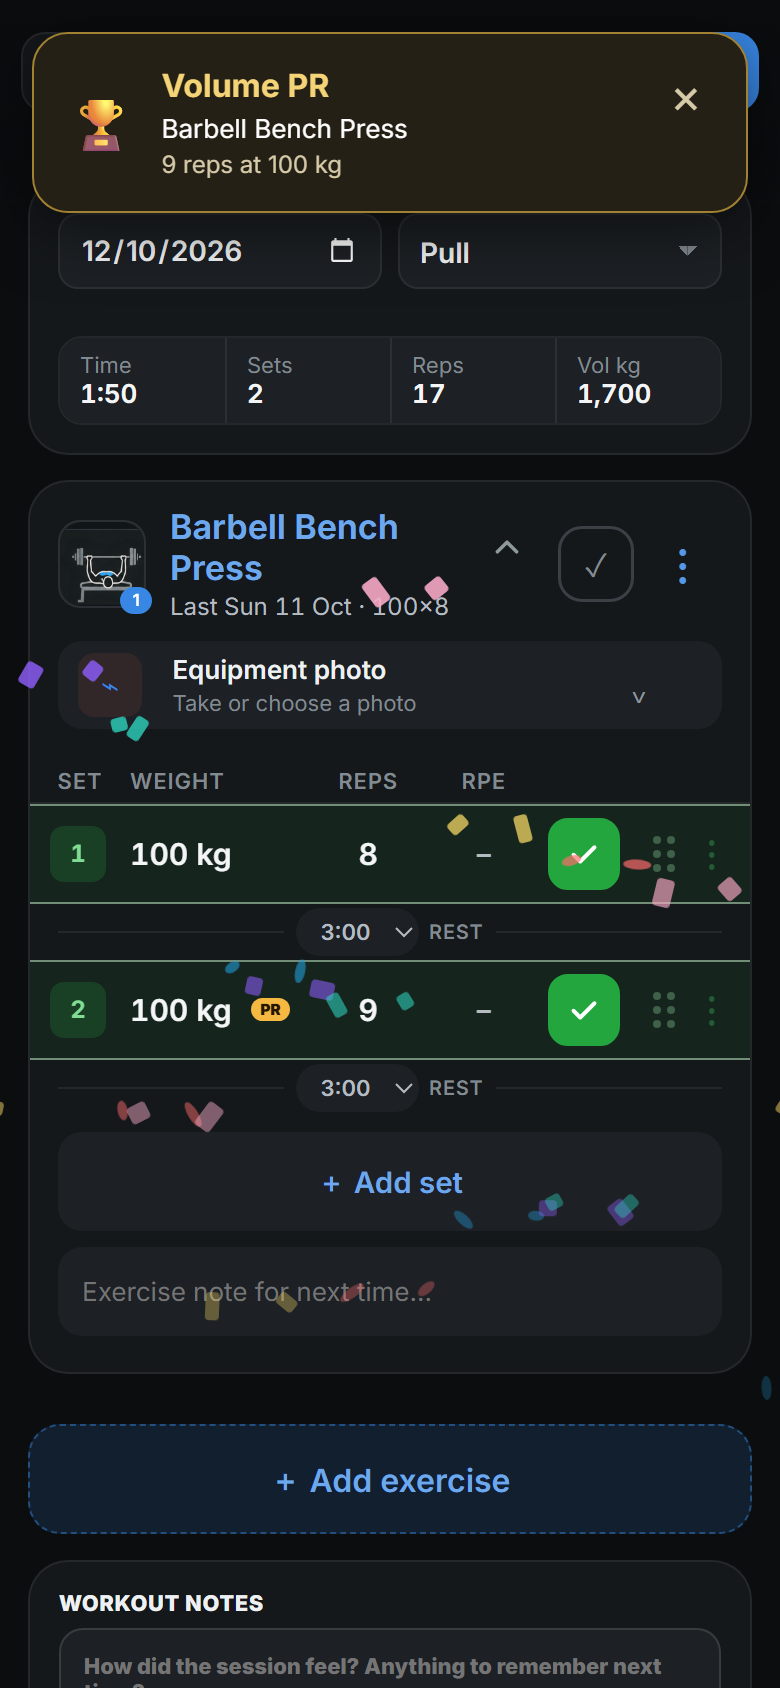
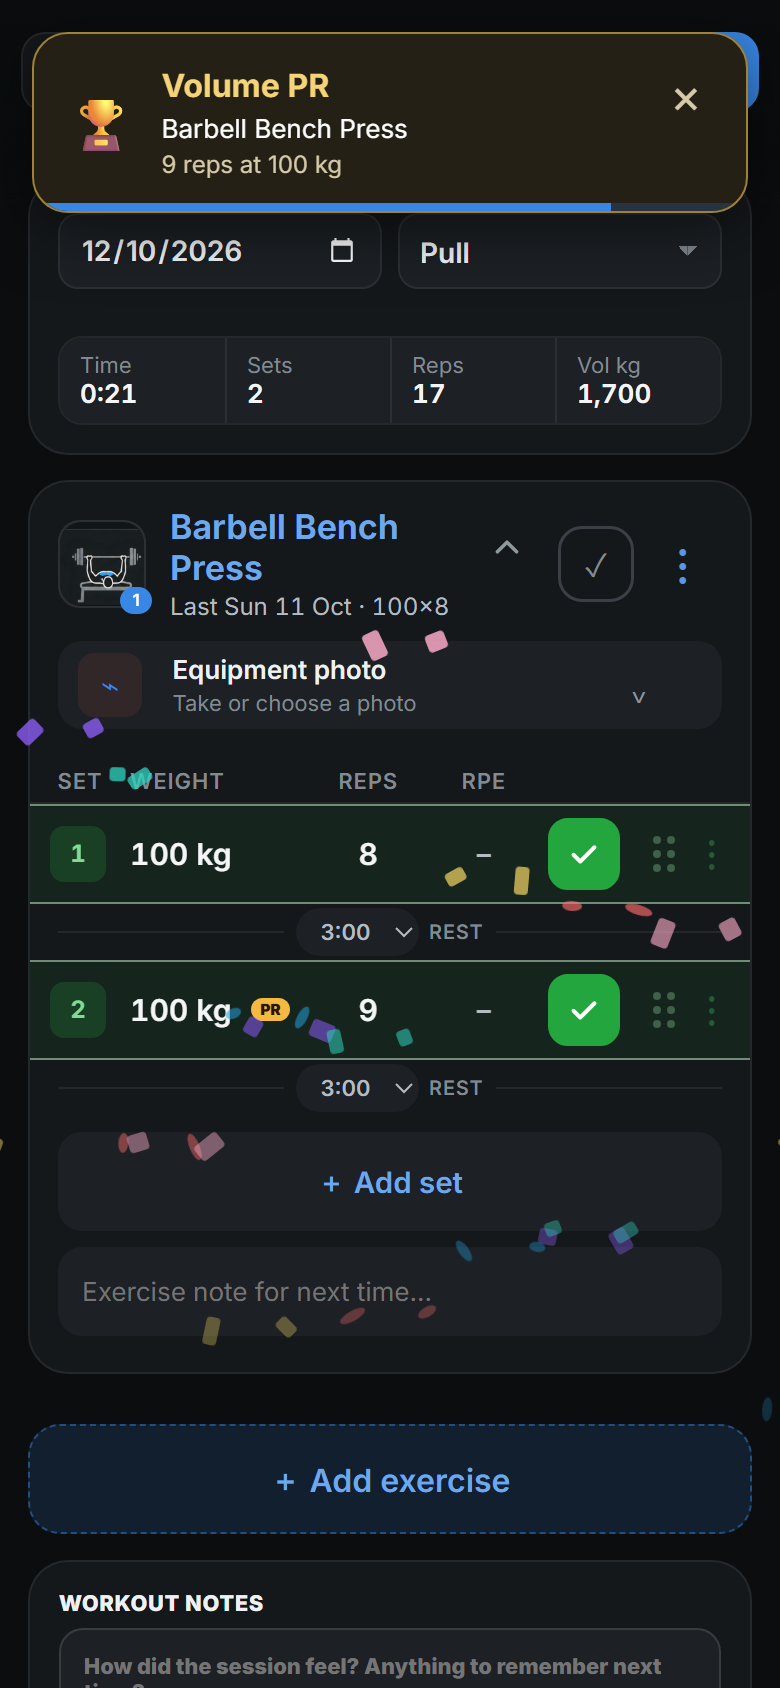
Show a five-second blue countdown on PR popups

diff --git a/frontend/src/PrToast.tsx b/frontend/src/PrToast.tsx
@@ -1,4 +1,5 @@
 import { useEffect } from 'react';
+import type { CSSProperties } from 'react';
 import './prToast.css';
 
 export interface PrToastEntry {
@@ -8,7 +9,7 @@ export interface PrToastEntry {
   weightKg: number;
 }
 
-export const PR_TOAST_MS = 3500;
+export const PR_TOAST_MS = 5000;
 
 export function PrToast({ entries, onClose }: { entries: PrToastEntry[]; onClose: () => void }) {
   useEffect(() => {
@@ -17,11 +18,17 @@ export function PrToast({ entries, onClose }: { entries: PrToastEntry[]; onClose
   }, [entries, onClose]);
 
   return (
-    <aside className="pr-toast" role="status" aria-live="polite" aria-atomic="true">
+    <aside
+      className="pr-toast"
+      role="status"
+      aria-live="polite"
+      aria-atomic="true"
+      style={{ '--pr-toast-duration': `${PR_TOAST_MS}ms` } as CSSProperties}
+    >
       <span className="pr-toast-icon" aria-hidden="true">
         🏆
       </span>
-      <div>
+      <div className="pr-toast-copy">
         {entries.map((entry, index) => (
           <div key={index}>
             <strong>{entry.labels.join(' + ')}</strong>
@@ -35,6 +42,9 @@ export function PrToast({ entries, onClose }: { entries: PrToastEntry[]; onClose
       <button type="button" onClick={onClose} aria-label="Dismiss personal record popup">
         ×
       </button>
+      <span className="pr-toast-countdown" aria-hidden="true">
+        <span className="pr-toast-countdown-fill" />
+      </span>
     </aside>
   );
 }

diff --git a/frontend/src/prToast.css b/frontend/src/prToast.css
@@ -15,17 +15,18 @@
   color: #fff;
   box-shadow: 0 8px 32px #0008;
   pointer-events: auto;
+  overflow: hidden;
 }
 
 .pr-toast-icon {
   font-size: 26px;
 }
-.pr-toast > div {
+.pr-toast-copy {
   flex: 1;
   min-width: 0;
 }
 .pr-toast strong,
-.pr-toast span:not(.pr-toast-icon),
+.pr-toast-copy span,
 .pr-toast small {
   display: block;
 }
@@ -33,7 +34,7 @@
   color: #f4d477;
   font-size: 16px;
 }
-.pr-toast span:not(.pr-toast-icon) {
+.pr-toast-copy span {
   margin-top: 4px;
   overflow-wrap: anywhere;
   font-size: 13px;
@@ -51,4 +52,38 @@
   font-size: 24px;
   padding: 0 4px;
   min-width: 28px;
+}
+
+.pr-toast-countdown {
+  position: absolute;
+  inset: auto 0 0;
+  height: 4px;
+  background: #3b82f633;
+}
+
+.pr-toast-countdown-fill {
+  display: block;
+  width: 100%;
+  height: 100%;
+  background: var(--p-accent, #3b82f6);
+  transform-origin: left;
+  animation: pr-toast-countdown var(--pr-toast-duration) linear forwards;
+}
+
+@keyframes pr-toast-countdown {
+  to {
+    transform: scaleX(0);
+  }
+}
+
+@media (prefers-reduced-motion: reduce) {
+  .pr-toast-countdown-fill {
+    animation-duration: var(--pr-toast-duration) !important;
+    animation-timing-function: steps(5, end);
+  }
+}
+
+html[data-reduce-motion] .pr-toast-countdown-fill {
+  animation-duration: var(--pr-toast-duration) !important;
+  animation-timing-function: steps(5, end);
 }

diff --git a/frontend/src/App.tsx b/frontend/src/App.tsx
@@ -2139,6 +2139,7 @@ function WorkoutLogger({
   );
   const [prConfettiBurst, setPrConfettiBurst] = useState(0);
   const [prToastEntries, setPrToastEntries] = useState<PrToastEntry[]>([]);
+  const [prToastId, setPrToastId] = useState(0);
   const celebratedPrsRef = useRef(
     new Set(
       movements.flatMap((movement) =>
@@ -2183,6 +2184,7 @@ function WorkoutLogger({
     completedSetKeysRef.current = completedSetKeys;
     if (entries.length) {
       setPrConfettiBurst((current) => current + 1);
+      setPrToastId((current) => current + 1);
       setPrToastEntries(entries);
     }
   }, [movements, prBadges]);
@@ -2599,7 +2601,9 @@ function WorkoutLogger({
 
   return (
     <section className="logger-screen content-page">
-      {prToastEntries.length > 0 && <PrToast entries={prToastEntries} onClose={closePrToast} />}
+      {prToastEntries.length > 0 && (
+        <PrToast key={`pr-toast-${prToastId}`} entries={prToastEntries} onClose={closePrToast} />
+      )}
       {prConfettiBurst > 0 &&
         (motionReduced() ? null : (
           <ConfettiBurst key={prConfettiBurst} onComplete={() => setPrConfettiBurst(0)} />

diff --git a/docs/RELEASE-NOTES.md b/docs/RELEASE-NOTES.md
@@ -3,13 +3,13 @@
 ## 0.4.0
 
 - **Weight PR** means a new heavier completed working set for that exercise. **Volume PR** means more reps in one set at the same previously logged weight for that exercise, including zero added weight. Each exercise and weight has its own baseline; first attempts, ties, lower results and extra total sets do not earn a PR.
-- A brief, dismissible popup names **Volume PR** or **Weight PR**, the exercise, reps and weight when you complete a record set. Existing records do not celebrate again when you reopen, toggle or save an unchanged workout. History, Today and Progress use the same two record types.
+- A dismissible **five-second** popup names **Volume PR** or **Weight PR**, the exercise, reps and weight when you complete a record set. A blue bar along its bottom counts down to automatic dismissal and starts fresh for each new record. Existing records do not celebrate again when you reopen, toggle or save an unchanged workout. History, Today and Progress use the same two record types.
 - Warmups, incomplete sets, zero reps and failed sets below their configured rep target cannot earn records. Drop sets and failed sets that meet their target remain eligible. Kilogram/pound display preferences do not change comparisons. Backdated workouts, edits and deletions rebuild the derived records in date order.
 - Estimated 1RM remains available in Progress, but estimated 1RM, duration and distance increases no longer award PRs. Existing derived PRs are recalculated on backend startup; original workout records are preserved. No database migration is required.
 
 <img src="screenshots/releases/0.4.0-volume-weight-prs.png" alt="Workout logger showing a Volume PR popup for nine bench press reps at 100 kg." width="390">
 
-The brief Volume PR popup in an isolated phone-width environment with synthetic workout records.
+The five-second Volume PR popup with its blue countdown bar, captured in an isolated phone-width environment with synthetic workout records.
 
 - New accounts get a feature tour after closing **What's new**. Annotations highlight the real Today, Start, History, Progress, Body and Cardio controls, plus Videos when the account has access. Move with **Next** and **Back**, or **Skip guide** at any time. The tour does not start workouts or uploads.
 - Choose **Show steps** after **Make Gym Logger your own** to see the illustrated Home Screen installation page, then **Next** for the thank-you message and optional feedback box. **Back** returns to the feature tour; **Skip guide** remains available. **Send feedback** stores your message privately with your username for administrators to read in **Settings > Admin console > App feedback**. Failed submissions keep your text for retry; retrying the same submission does not create duplicates.
